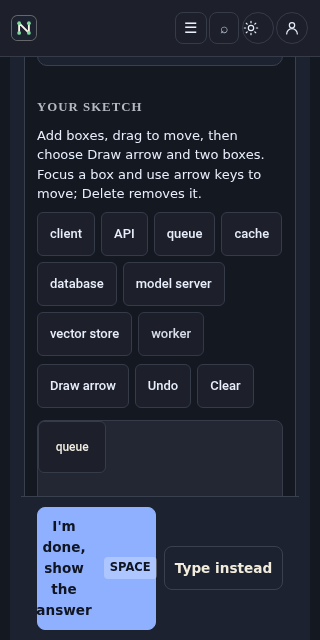
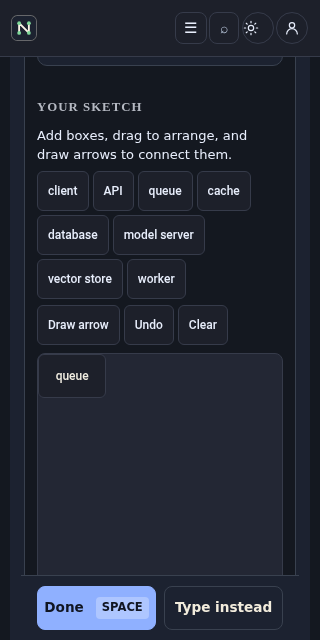
fix(interview): resolve mobile pass defects for button contrast and system design canvas

diff --git a/src/components/interview/simpleInterview.css b/src/components/interview/simpleInterview.css
@@ -431,23 +431,43 @@
   transition: background 140ms, border-color 140ms;
 }
 
-.si-actions button:hover {
+.si-actions button:not(.si-primary):hover {
   background: var(--line);
 }
 
+.si-primary,
 .si-actions .si-primary {
   border-color: var(--accent);
   background: var(--accent);
   color: var(--on-accent);
 }
 
+.si-primary:hover,
 .si-actions .si-primary:hover {
+  border-color: var(--accent);
+  background: var(--accent);
+  color: var(--on-accent);
   opacity: 0.92;
+}
+
+.si-primary:active,
+.si-actions .si-primary:active {
+  border-color: var(--accent);
+  background: var(--accent);
+  color: var(--on-accent);
 }
 
 .si-actions button:disabled {
   opacity: 0.45;
   cursor: not-allowed;
+}
+
+.si-btn-short {
+  display: none;
+}
+
+.si-btn-full {
+  display: inline;
 }
 
 button:focus-visible, a:focus-visible, select:focus-visible, textarea:focus-visible {
@@ -1205,6 +1225,12 @@ button.si-node,
   .si-topic-select {
     display: block;
   }
+  .si-btn-short {
+    display: inline;
+  }
+  .si-btn-full {
+    display: none;
+  }
 }
 
 @media (max-width: 560px) {
@@ -1249,8 +1275,9 @@ button.si-node,
     width: auto;
     flex: 1 1 0;
     min-width: 0;
-    padding: 8px 6px;
+    padding: 8px 10px;
     font-size: 0.85rem;
+    white-space: nowrap;
   }
   .si-sticky .si-done {
     min-height: 44px;

diff --git a/src/components/interview/SimpleInterviewPage.tsx b/src/components/interview/SimpleInterviewPage.tsx
@@ -1339,8 +1339,17 @@ export default function SimpleInterviewPage() {
             )}
             {question.rounds?.includes('system-design') && <SystemDesignCanvas key={questionId} value={sketch} onChange={setSketch} />}
             <div className="si-actions si-sticky">
-              <button type="button" className="si-primary" id="done" onClick={finishAnswer}>
-                I'm done, show the answer <span className="si-key-hint">Space</span>
+              <button
+                type="button"
+                className="si-primary"
+                id="done"
+                aria-label="I'm done, show the answer"
+                onClick={finishAnswer}
+              >
+                <span className="si-btn-short" aria-hidden="true">Done</span>
+                <span className="si-btn-full" aria-hidden="true">I'm done, show the answer</span>
+                <span className="sr-only">I'm done, show the answer</span>
+                <span className="si-key-hint">Space</span>
               </button>
               {question.problemId && (
                 <button

diff --git a/src/components/interview/SystemDesignCanvas.tsx b/src/components/interview/SystemDesignCanvas.tsx
@@ -28,7 +28,7 @@ export function SystemDesignCanvas({ value, onChange, title = 'Your sketch' }: {
   return <section className="sd-canvas" aria-label={title}>
     <h3>{title}</h3>
     {onChange && <>
-      <p>Add boxes, drag to move, then choose Draw arrow and two boxes. Focus a box and use arrow keys to move; Delete removes it.</p>
+      <p>Add boxes, drag to arrange, and draw arrows to connect them.</p>
       <div className="sd-tools" aria-label="Box palette">{BOX_TYPES.map(label => <button type="button" key={label} disabled={value.nodes.length >= 24}
         onClick={() => { const i = value.nodes.length; change({ ...value, nodes: [...value.nodes, { id: crypto.randomUUID(), label, x: (i % 3) * 34, y: Math.floor(i / 3) * 12 }] }); }}>{label}</button>)}</div>
       <div className="sd-tools">

diff --git a/src/components/interview/systemDesignCanvas.css b/src/components/interview/systemDesignCanvas.css
@@ -12,3 +12,11 @@
 .sd-empty { display: block; padding: 20px; }
 .sd-comparison { display: grid; gap: 20px; grid-template-columns: minmax(0, 1fr); }
 @media (min-width: 800px) { .sd-comparison { grid-template-columns: repeat(2, minmax(0, 1fr)); } }
+@media (max-width: 640px) {
+  .sd-canvas { scroll-margin-bottom: 84px; margin-bottom: 24px; }
+  .sd-canvas h3 { margin: 8px 0 4px; }
+  .sd-canvas p { margin: 2px 0 6px; }
+  .sd-tools { margin: 6px 0; gap: 4px; }
+  .sd-canvas .sd-tools button, .sd-canvas .sd-tools input { min-height: 40px; padding: 6px 10px; font-size: 12px; }
+  .sd-board { height: 280px; margin-top: 8px; }
+}

diff --git a/playwright.interview.config.ts b/playwright.interview.config.ts
@@ -3,7 +3,7 @@ import base from './playwright.config';
 process.env.TEST_PORT = '5173';
 export default defineConfig({
   ...base,
-  testMatch: 'interview-room.spec.ts',
+  testMatch: /interview-.*\.spec\.ts/,
   workers: 1,
   use: { ...base.use, baseURL: 'http://127.0.0.1:5173/' },
   webServer: {

diff --git a/AGENT_TRACKER.md b/AGENT_TRACKER.md
@@ -144,3 +144,4 @@ Before writing any code or making edits:
 | `2026-11-10T11:39:24+05:30` | `Codex` | `software-system-design` | `tests/interview-room.spec.ts`, `docs/evidence/interview/room-stale-review-fix.md`, `AGENT_TRACKER.md` | Diagnose red main stale-review test and verify the observable navigation guarantee | `BLOCKED` | Targeted browser case passed; full browser spec stopped by memory floor; final typecheck stopped at 2023 MiB; build below 5 GB | Targeted case 1/1 passed; corrected full spec 19 passed before 2045 MiB floor; fresh shards stopped at 2047/1968 MiB. Rubric scoring uses one NLI batch, reference uses two; exact current-question checklist now proves stale result isolation. No product/CSS/layout changes or push. |
 
 | `2026-11-10T12:33:00+05:30` | `Antigravity` | `interview-mastery-graph` | `docs/evidence/interview/mobile-pass/`, `docs/evidence/interview/mobile-pass.md`, `AGENT_TRACKER.md`, `scripts/recapture-mobile-pass.mjs` | Recapture valid mobile pass screenshots with asserted unique selectors, hash uniqueness verification, real question flows, and rewrite mobile-pass.md per docs/briefs/mobile-pass-evidence.md | `COMPLETED` | Typecheck, Links, Vitest (interview 42/42), 144/144 SHA-256 Hash Uniqueness (Passed) | Recaptured all 18 screens across 4 widths (320, 375, 768, 1440) and 2 themes (light, dark). Unique selector asserted before every capture; all 144 files verified unique SHA-256 hashes (0 duplicates). Rewrote mobile-pass.md truthfully. Dev server and Chromium stopped immediately. No push. |
+| `2026-11-10T13:20:00+05:30` | `Antigravity` | `interview-mastery-graph` | `src/components/interview/`, `playwright.interview.config.ts`, `docs/evidence/interview/mobile-pass/`, `scripts/recapture-affected.mjs`, `AGENT_TRACKER.md` | Execute docs/briefs/mobile-pass-fixes-2.md: fix 05-asking light contrast on primary button and audit others; fix 13-system-design-canvas mobile sticky bar, Done label, single-row buttons, canvas covering and help text; recapture affected; run specs | `COMPLETED` | Typecheck, Links, Vitest (42/42), Playwright interview specs (60/60), 144/144 Unique PNG Hashes (Passed) | Fixed 05-asking primary button light contrast (measured 7.14:1 vs 1.64:1 on beige hover); audited all other primary buttons; fixed 13-system-design-canvas on narrow viewports: 'Done' short label with full screen-reader label kept, single row actions without wrap, sticky bar offset & spacing, 1-line canvas help text; recaptured affected screens with 15s per-page timeout; verified 144 unique SHA-256 hashes (0 duplicates); all 60 Playwright interview specs and 42 Vitest specs passed. No push. |
